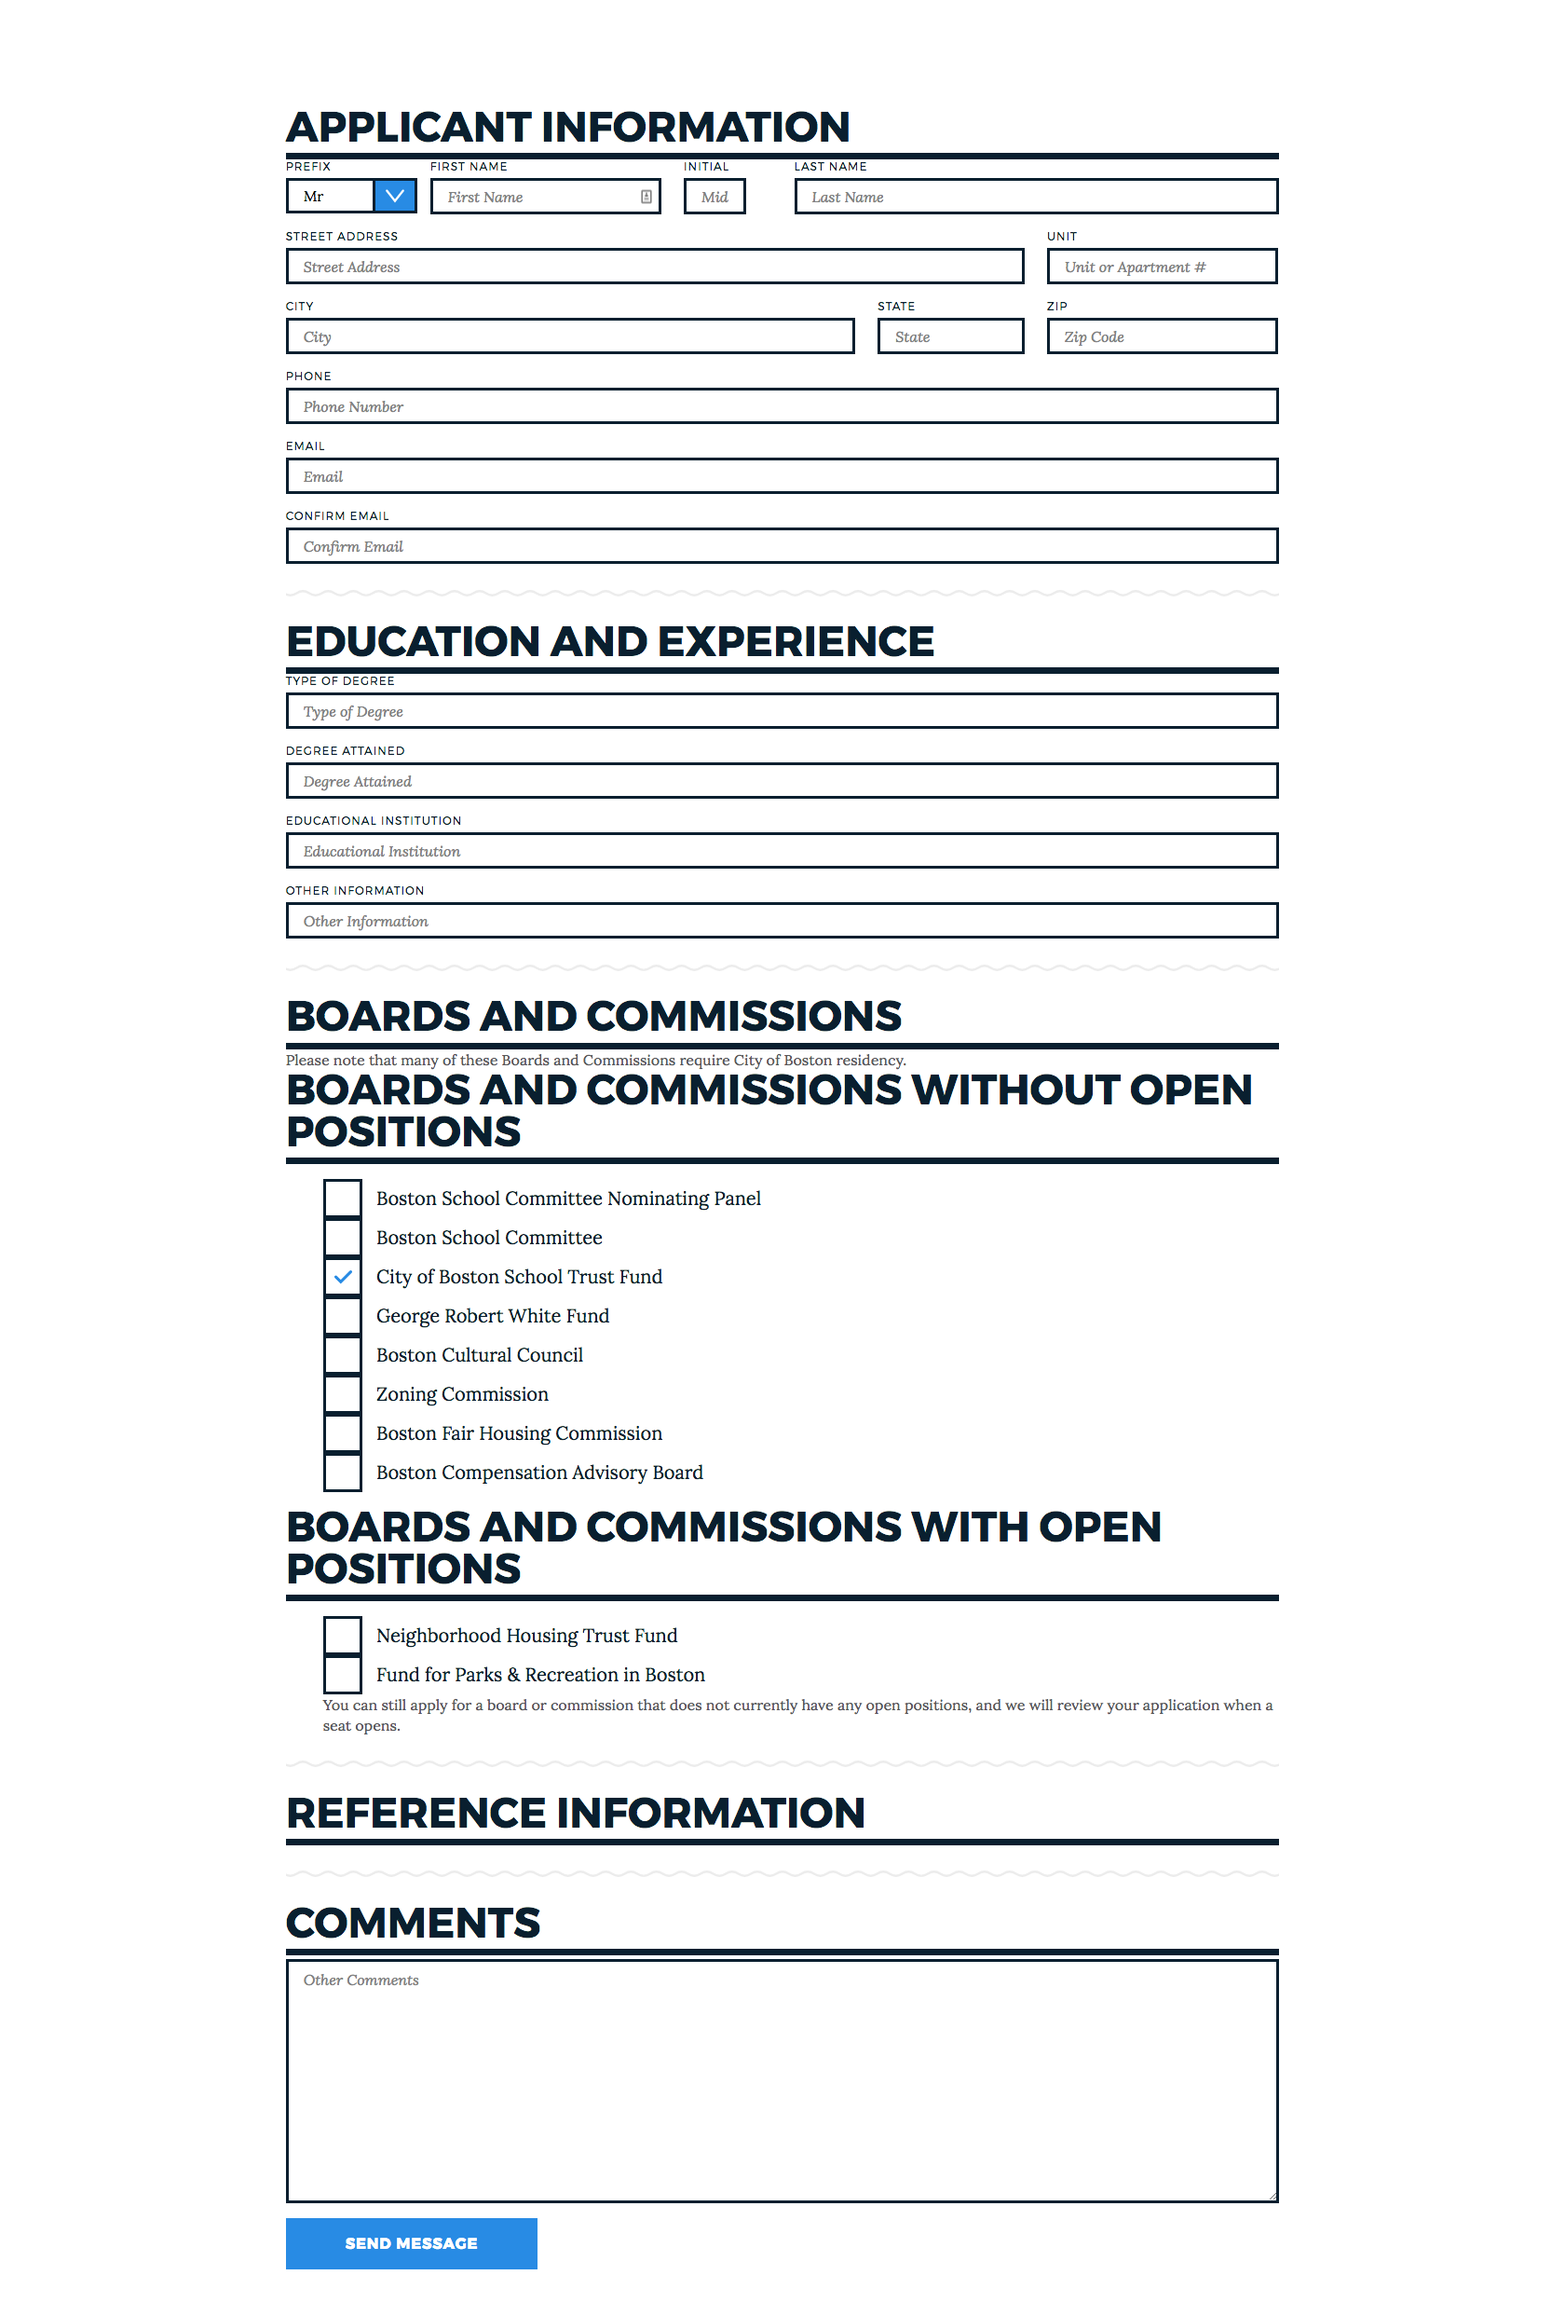
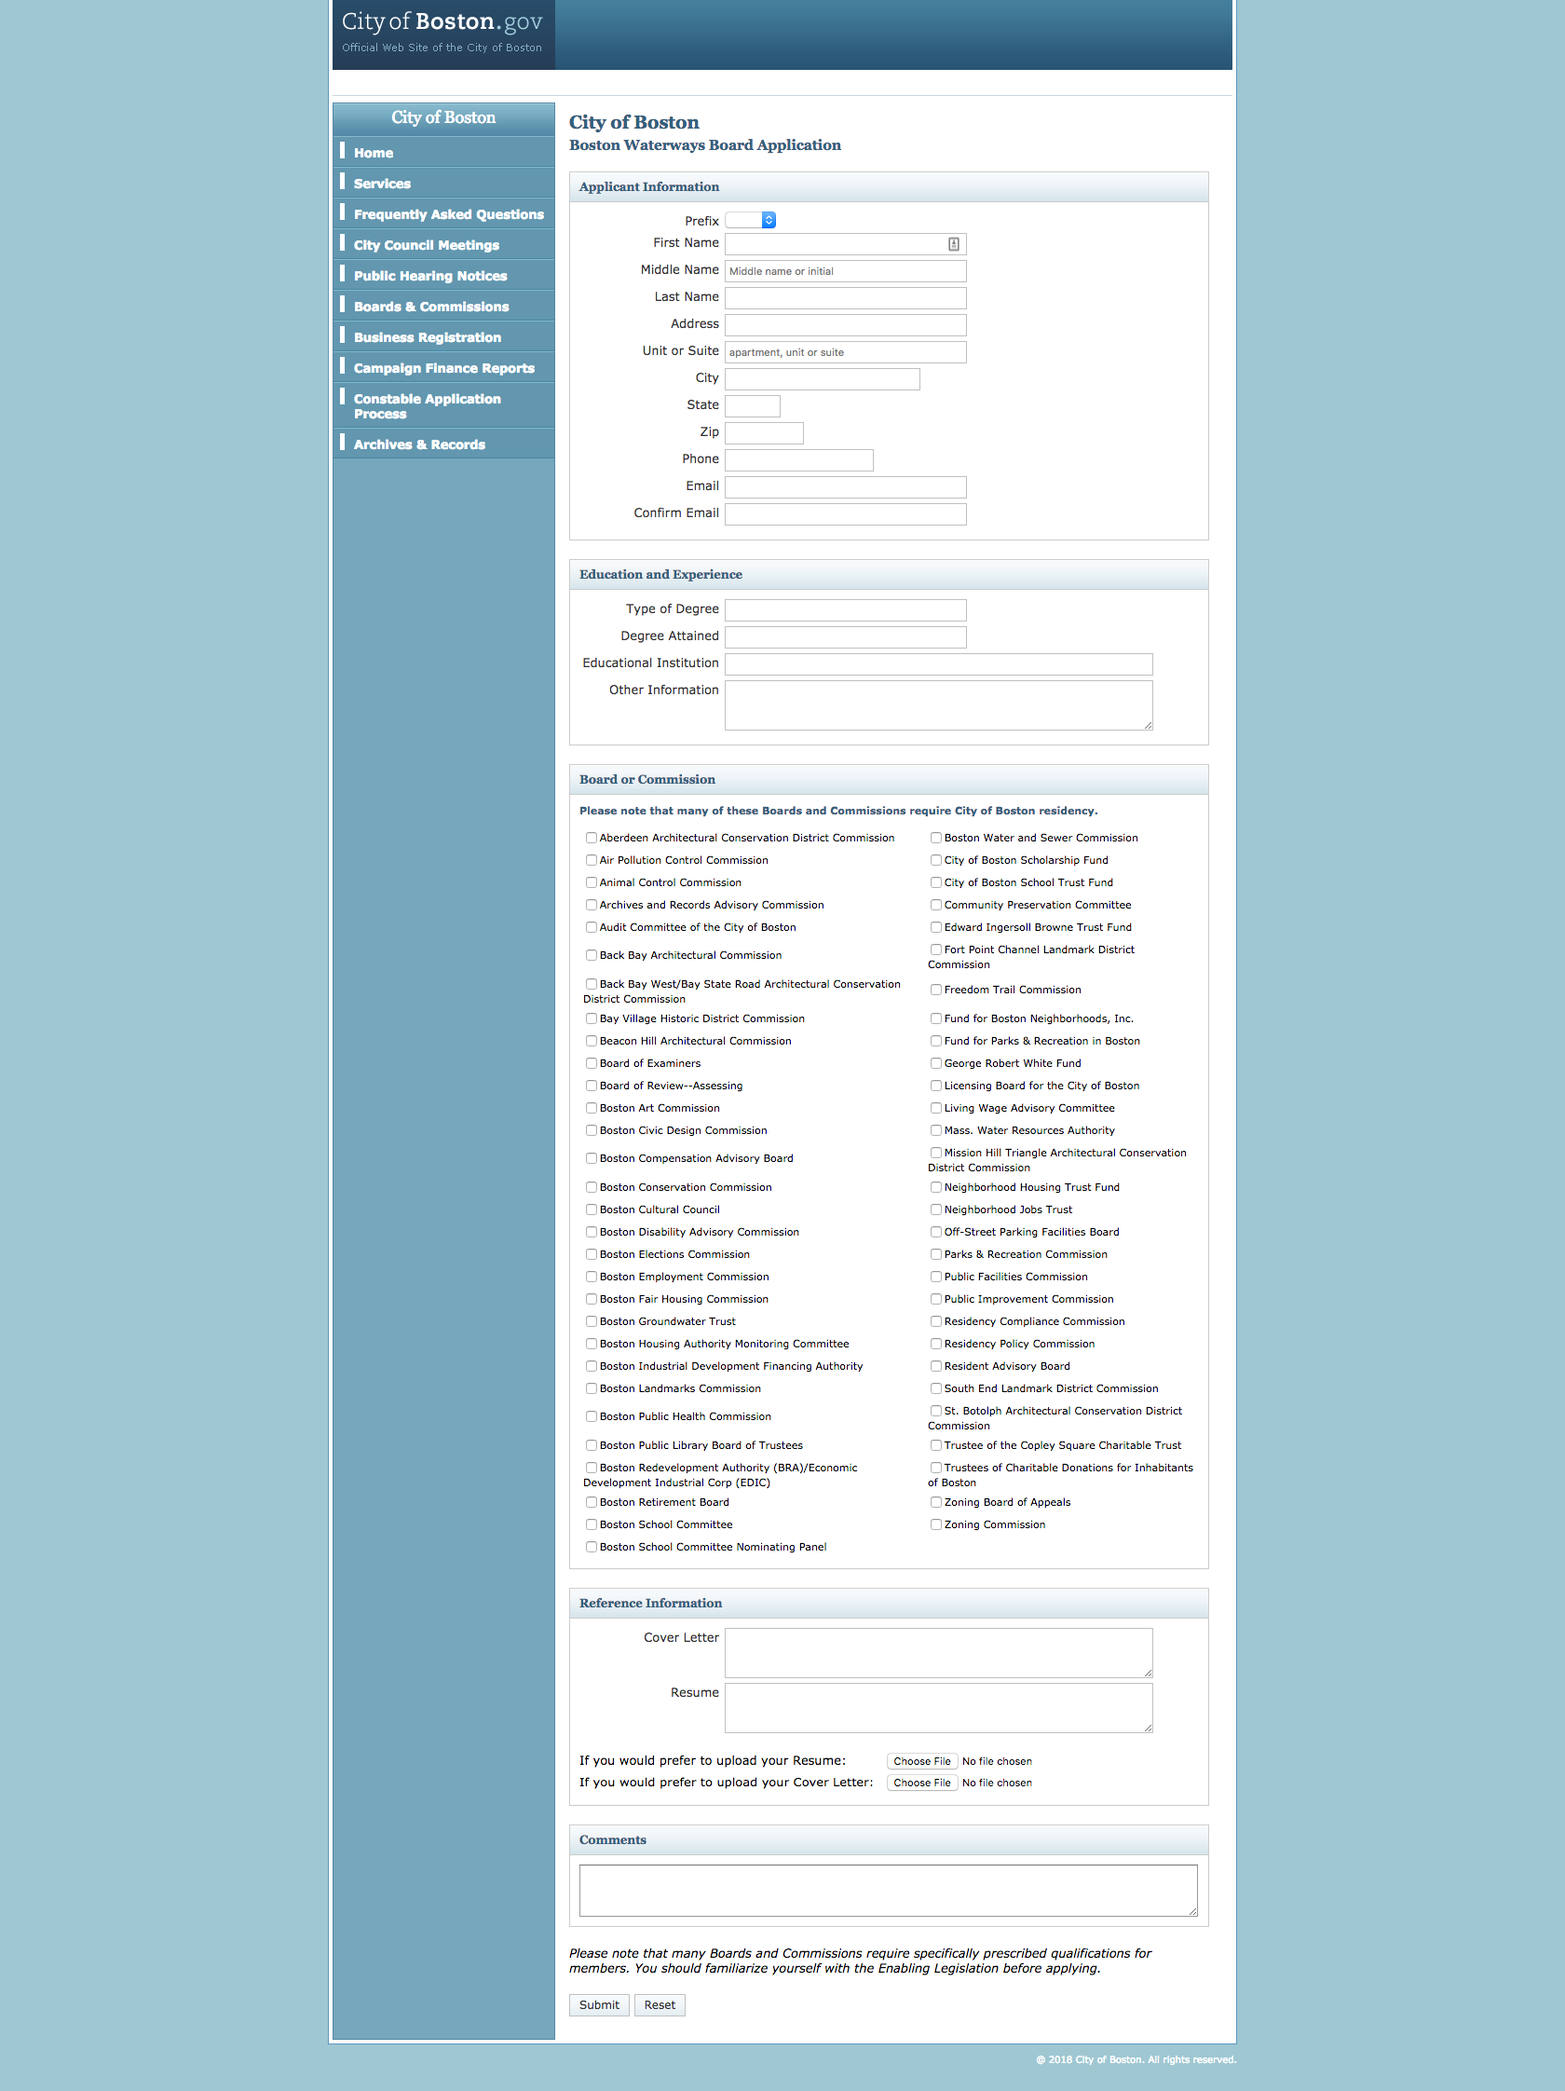
Uploader, Server and routes updated.

diff --git a/README.md b/README.md
@@ -1,7 +1,7 @@
 
-![Old Boards and Commissions Application Form](img/bg.png)
+![Old Boards and Commissions Application Form](img/bc.png)
 
-![New Boards and Commissions Application Form](img/BC.png)
+![New Boards and Commissions Application Form](img/BG.png)
 
 # My Awesome Project
 After graduating my bootcamp with Resilient Coders, I landed a internship engineering for the City of Boston Digital Team and their goal in this application was to bring the existing cityofboston.gov boards and commissions webpage (HTML, CSS, and Javascript) onto boston.gov(React.js, Next.js). My task in this project was to improve the existing functionality and user experience for the applications form.
@@ -9,15 +9,16 @@ After graduating my bootcamp with Resilient Coders, I landed a internship engine
 
 
 ## How It's Made ## Lessons Learned:
-In this boards and commission application form I am creating it with React and using a NPM package called Formik.  Formik is a less painful way of making forms with event callback functions like (handleBlur, handleSubmit), setup validation, and easy error handling.
+In this boards and commission application form I am writing in React.js and using an NPM package called Formik.  Formik is a less painful way of making forms with event callback functions like (handleBlur, handleSubmit), setup validation, and easy error handling.
 
-In regular React code, lets say you have to make a text input field, I would have to use two-way data binding, use change/call back handler, use this.setState for your change/call back handler and where you would like to target exactly for the state to change and pass it to the input and every input after that.
+In regular React code, let’s say you have to make a input, you would have to use two-way data binding. If you want to use change/call back handler, you would have to use this.setState for your change/call back handler and wherever you would like to target exactly for the state to change and pass it to the input and every input after that.
 
-That’s a lot of code,  which becomes redundant having to setState and binding for things like handleChange, handleSubmit, handleBlur and other handlers, but Formik has some of these and does all the heavy lifting.
+That’s a lot of code! This becomes redundant having to setState and binding for things like handleChange, handleSubmit, handleBlur and other handlers, but Formik streamlines this process
+ and does all the heavy lifting.
 
-  Being a high order component, you pass it a configuration and it injects properties in your form. It tracks all fields that have been visited, what the form’s values are, and much more. Also, they all have the same key to handle the primitives unlike regular React code.
+Being a high order component, you pass it a configuration, some props and it injects the properties into your form. It tracks all fields that have been visited, what the form’s values are, and much more. Also, they all have the same key to handle the primitives unlike regular React code.
 
-The states are initialized by actually writing the callbacks like handleSubmit in the actual Formik code instead of writing it about the render( ) like in regular React. As shown in the code below. you would write something like this….
+The states are initialized by actually writing the callbacks like handleSubmit in the actual Formik code instead of writing it in the render( ) like in a normal  React Component. As shown in the code below, you would write something like this….
 
 class Application extends Component {
 componentWillMount = () => {
@@ -39,9 +40,9 @@ for (const checkbox of this.selectedCheckboxes) {
  console.log(checkbox, 'is selected.');
 }
 }
-    ...but in Formik the only thing you would have to do is add the the props to the decontructed render method like handleBlur, handleChange, and handleSubmit to pass it through certain properties. You don’t have to change the code just write the type compatible with the property. Here is an example of how I would go about it in Formik:
+    ...but in Formik the only thing you would have to do is use a deconstructed function and add the functions like handleBlur, handleChange, and handleSubmit to pass it through certain properties. You don’t have to change the code just write the type compatible with the property. When writing in typescript, which is strict syntactical superset of JavaScript that has its own linter called TS Lint and is also designed to compile to JavaScript. Typescript An App.tsx is the file template that I had to used for my components.  Here is an example of how I would go about it in Formik:
 
-```return (
+`return (
 
  <div className="mn">
 
@@ -91,16 +92,15 @@ for (const checkbox of this.selectedCheckboxes) {
 
                  onBlur={handleBlur}
 
-               />)}
-               ```
+               />)}```
+
+
+   My mentor said it best in their last medium article... "I had thrown John into a type-checking world without preparation. He fell victim to a paradox of guard rails: it can take more effort to deal with a checker’s “helpful” error messages than it would ever be to debug the problems it’s warning you against."
 
 TypeScript was giving me messages saying:
 `"Type '{ name: string; placeholder: string; value: string; onChange: (e: ChangeEvent<any>) => void; erro...' is not assignable to type 'IntrinsicAttributes & IntrinsicClassAttributes<FormWithElement> & Readonly<{ children?: ReactNode...'. Type '{ name: string; placeholder: string; value: string; onChange: (e: ChangeEvent<any>) => void; erro...' is not assignable to type 'Readonly<Props>'. Property 'title' is missing in type '{ name: string; placeholder: string; value: string; onChange: (e: ChangeEvent<any>) => void; erro…'`
 
-When writing in typescript, which is strict syntactical superset of JavaScript that has its own linter called TS Lint and is also designed to compile to JavaScript. Typescript An App.tsx is the file template that I had to used for my components.
 ....I was lost but I learned from my mentor that I had to first understand what the error was trying to tell me and break it down for this case, it was saying Property 'title' is missing in type '{ name: string; placeholder: string; value: string;"" Because I had passed several props into a interface and title being one of them TypeScript picked up and thru that error to make me aware that it should be in there. Here is an example of Formik code
-
-   My mentor said it best in their last medium article... "I had thrown John into a type-checking world without preparation. He fell victim to a paradox of guard rails: it can take more effort to deal with a checker’s “helpful” error messages than it would ever be to debug the problems it’s warning you against."
 
 They even have cool props called errors and touched and used correctly when set up if a field is visited (touched) when you set up your Yup for object schema validation. It has an API that's pretty similar Joi / React PropTypes and this is a complementary package Formik) when it is blurred it will display the error you created. Here is an example of the code:
 
@@ -112,7 +112,8 @@ They even have cool props called errors and touched and used correctly when set 
 
            .min(2, 'Your First Name Needs To Be Valid'),
 
-       })}```
+       })}
+       ```
 
 With firstName being the initialValue passed thru to Formik from my higher order component I created. It now knows that that TextInput.tsx is a text input field that is named “firstName” and it is a string that is required and has a minimal of 2 characters, if the field is touched ( error={touched.firstName && errors.firstName} )  then blurred ( {handleBlur} ) it will display the message created in the .min function. Or touched and there was no onChange it will let you know that it is required as well.
 
@@ -144,17 +145,19 @@ This was the tough part because I didn’t understand the errors I was receiving
 
 Going on to the next component that I which felt ten times harder than the TextInput component I created to be passed thru to the Formik function. Just like the other component I had to make sure I passed props correctly so I exported a `title:string` in the interface for that instance, I had to make sure It was in the stories
 
-``storiesOf('CommentInput', module).add('default', () => (
+```storiesOf('CommentInput', module).add('default', () => (
   <CommentInput
     name="comments"
     placeholder="Other Comments"
     value="comments"
     onChange=""
-    onBlur=""  />));
-    ``
+    onBlur=""
+  />
+));
+```
  (so you can visualize different states of your UI components and develop them interactively. Storybook is a UI development environment for your UI components.) as well as making sure your main component has all the right properties and types you wrote before.
 
-``renderCommission(
+```renderCommission(
     commission: Commission,
     checkedCommissionIds: string[],
     push,
@@ -185,10 +188,11 @@ Going on to the next component that I which felt ten times harder than the TextI
           checked={checked}
         />
       </li>
-    ); }
-    ```
+    );
+  }
+```
 
-In this renderCommission() function I had to pass in props so you are able to use them. `Commission:Commission` is actually from a listen of boards and commission names we are fetching with Next.js to be used in this app. So for each commission map I want to map it with a checkbox but with Formik has a component that helps with common array and list manipulation and it is called FieldArray. You can also iterate through an array of objects, by following a convention of object[index]property
+In this renderCommission() function I had to pass in deconstructed props so you are able to use them. `Commission:Commission` is actually from a listen of boards and commission names we are fetching with Next.js to be used in this app. So for each commission map I want to map it with a checkbox but with Formik has a component that helps with common array and list manipulation and it is called FieldArray. You can also iterate through an array of objects, by following a convention of object[index]property
 
 ```<FieldArray
   name="commissionIds"
@@ -212,8 +216,7 @@ In this renderCommission() function I had to pass in props so you are able to us
   )}
 />
 ```
-
-In this Formik component in the list element tag, the render method you will see that I am using the same renderCommission you see above but I mapped that with the variable I created for commissions WithoutOpen Seats, Commissions already being fetched I filtered it and used it so there will be one set of checkboxes that will show without open seats and one with, here is a example of how i set up those variables:
+In this Formik component in the list element tag, the render method you will see that I am using the same renderCommission you see above but I mapped that with the variable I created for commissions WithoutOpen Seats, Commissions already being fetched I filtered it and used it like so there will be one set of checkboxes that will show without open seats and one with, here is a example of how i set up those variables:
 ``render() {
     const { commissions } = this.props;
 
@@ -222,22 +225,20 @@ In this Formik component in the list element tag, the render method you will see
     );
     const commissionsWithOpenSeats = commissions.filter(
       commission => commission.openSeats > 0
-    );
-    ```
+    );```
 
- the reason why push and remove methods are in that render is because   I listed that in the function above when I stepped the onChange handle so that Formik knew that there was an onChange happening I had to pass it here as well. Here is what it looks like:
+ The reason why push and remove methods are in that render is because   I listed that in the deconstructed function above when I stepped the onChange handle so that Formik knew that there was an onChange happening I had to pass it here as well.
 
- `onChange={() => {
+ ```onChange={() => {
    if (!checked) {
      push(commission.id.toString());
    } else {
      remove(checkedCommissionIds.indexOf(commission.id.toString()));
    }
- }}`
+ }}
+ ```
 
-Because commissions.id is a number type I had to use the method .toString() to convert it and I had to push that to make it have the checked attribute on the checkboxes. On the else was tricky because I thought I could just remove the commission.id.toStrings but I had to use indexOf() with the commission.id.toString() to remove it. I also had to to put handleBlur so it could display the message because that wasn’t a prop that was passed thru.
-
-
+Because {commissions.id} is a number type I had to use the method .toString() to convert it and I had to push that to make it have the checked attribute on the checkboxes. On the else was tricky because I thought I could just remove the commission.id.toStrings but I had to use indexOf() with the commission.id.toString() to remove it. I also had to to put handleBlur so it could display the message because that wasn’t a prop that was passed thru.
 
 ## Optimizations
 I have to finish this Read.me
